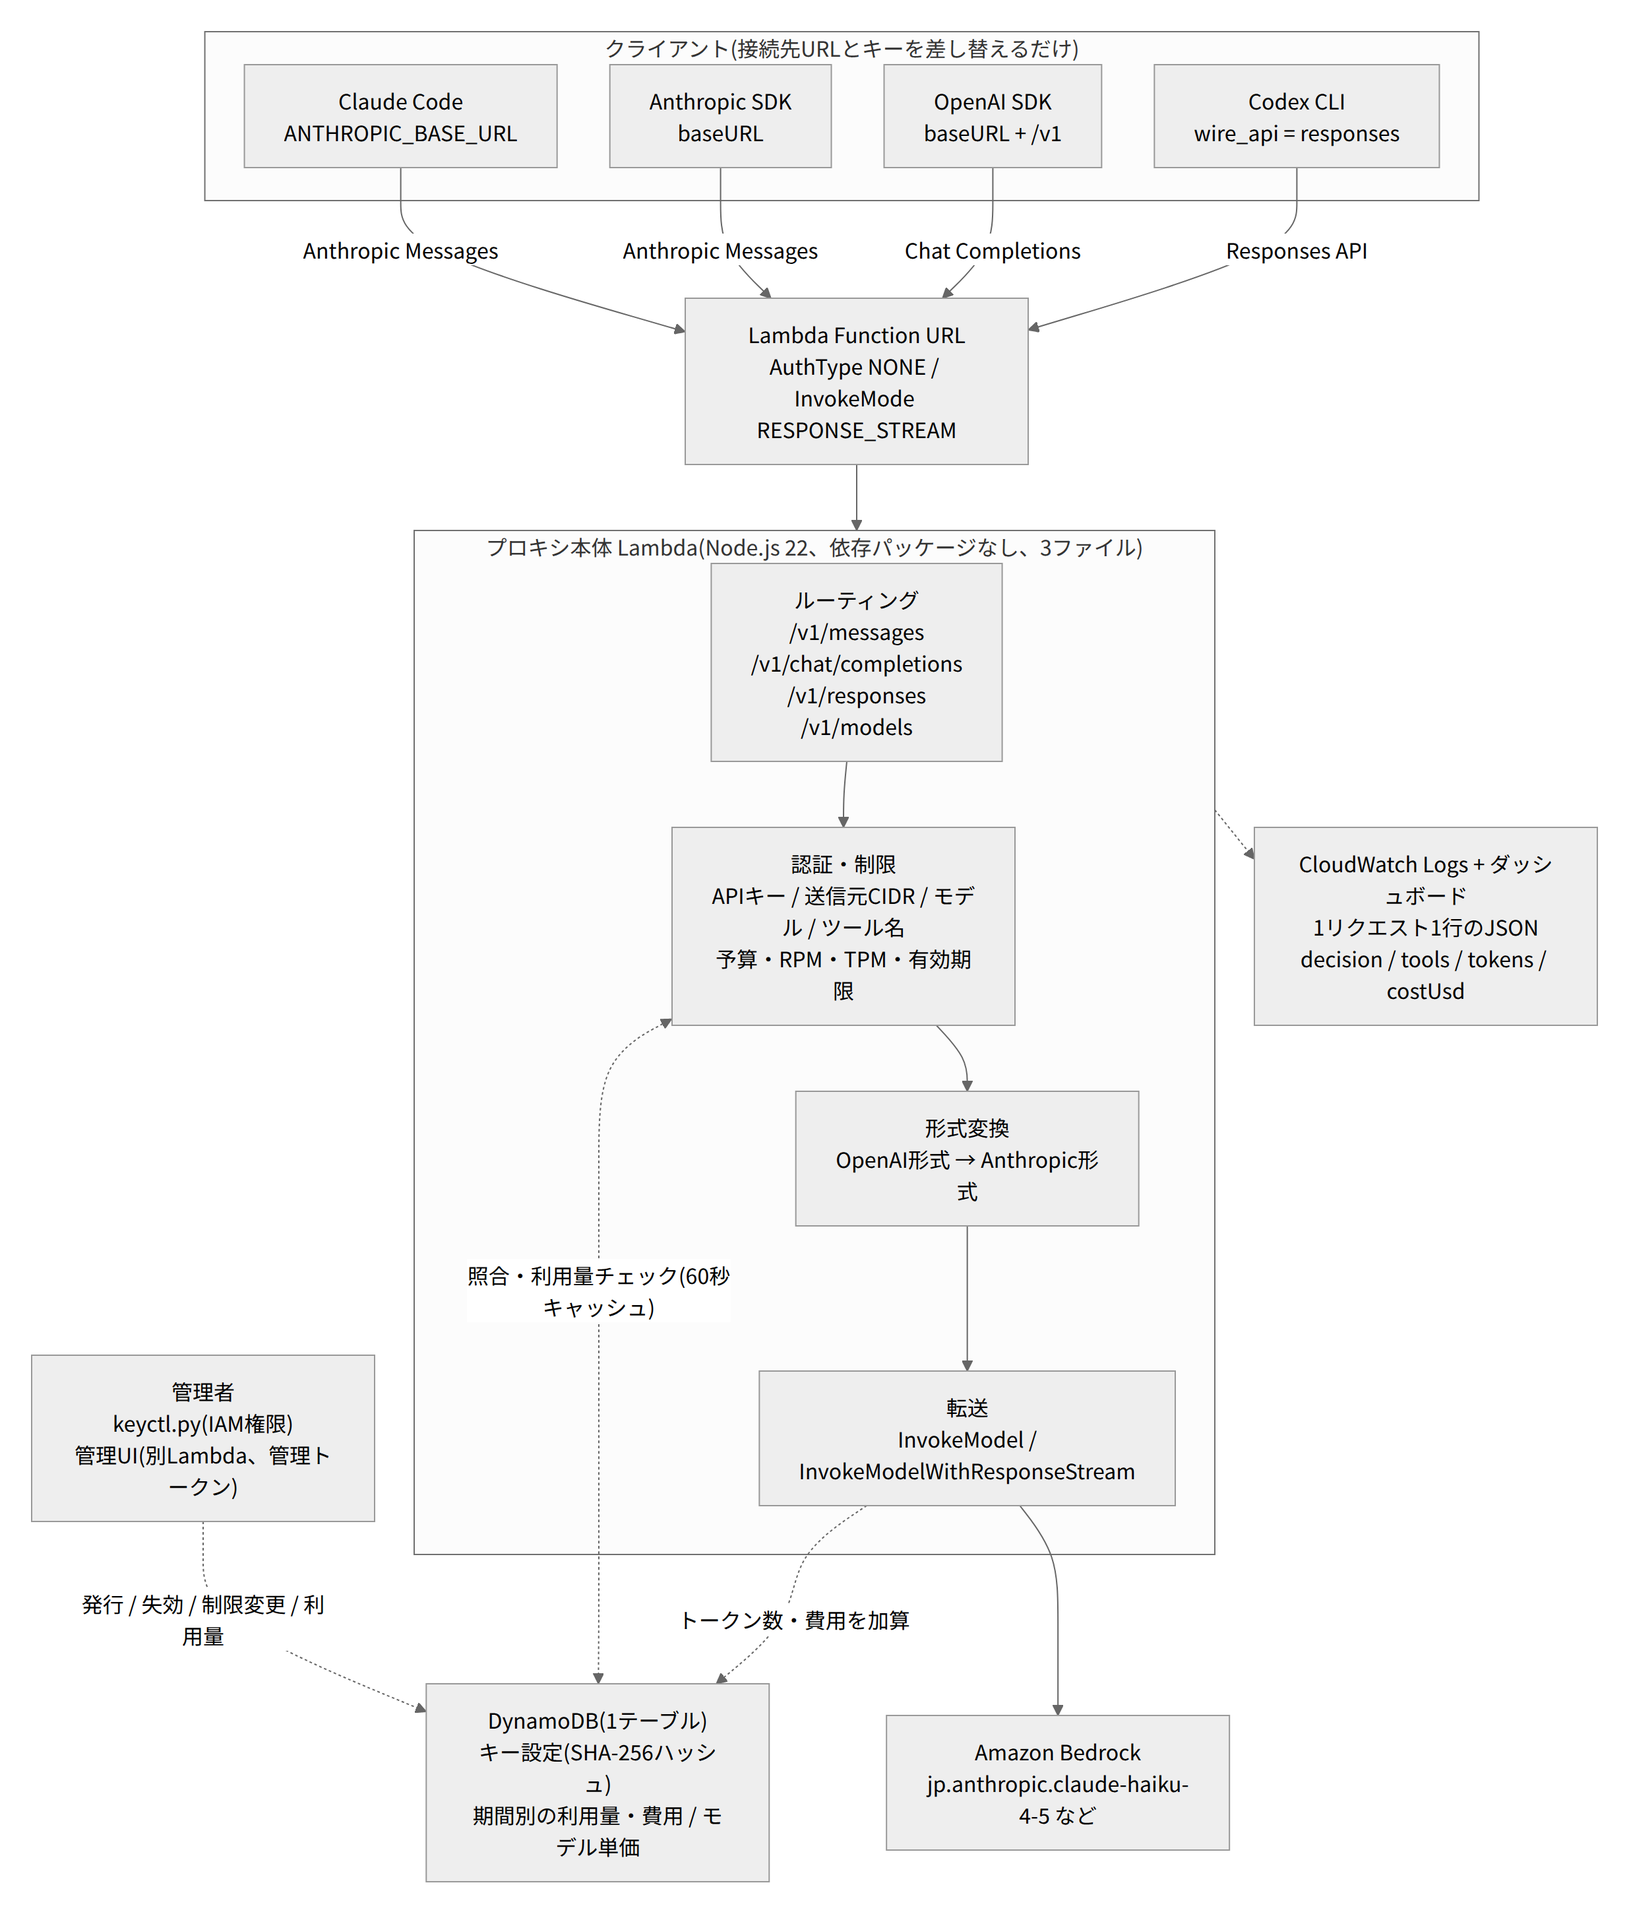
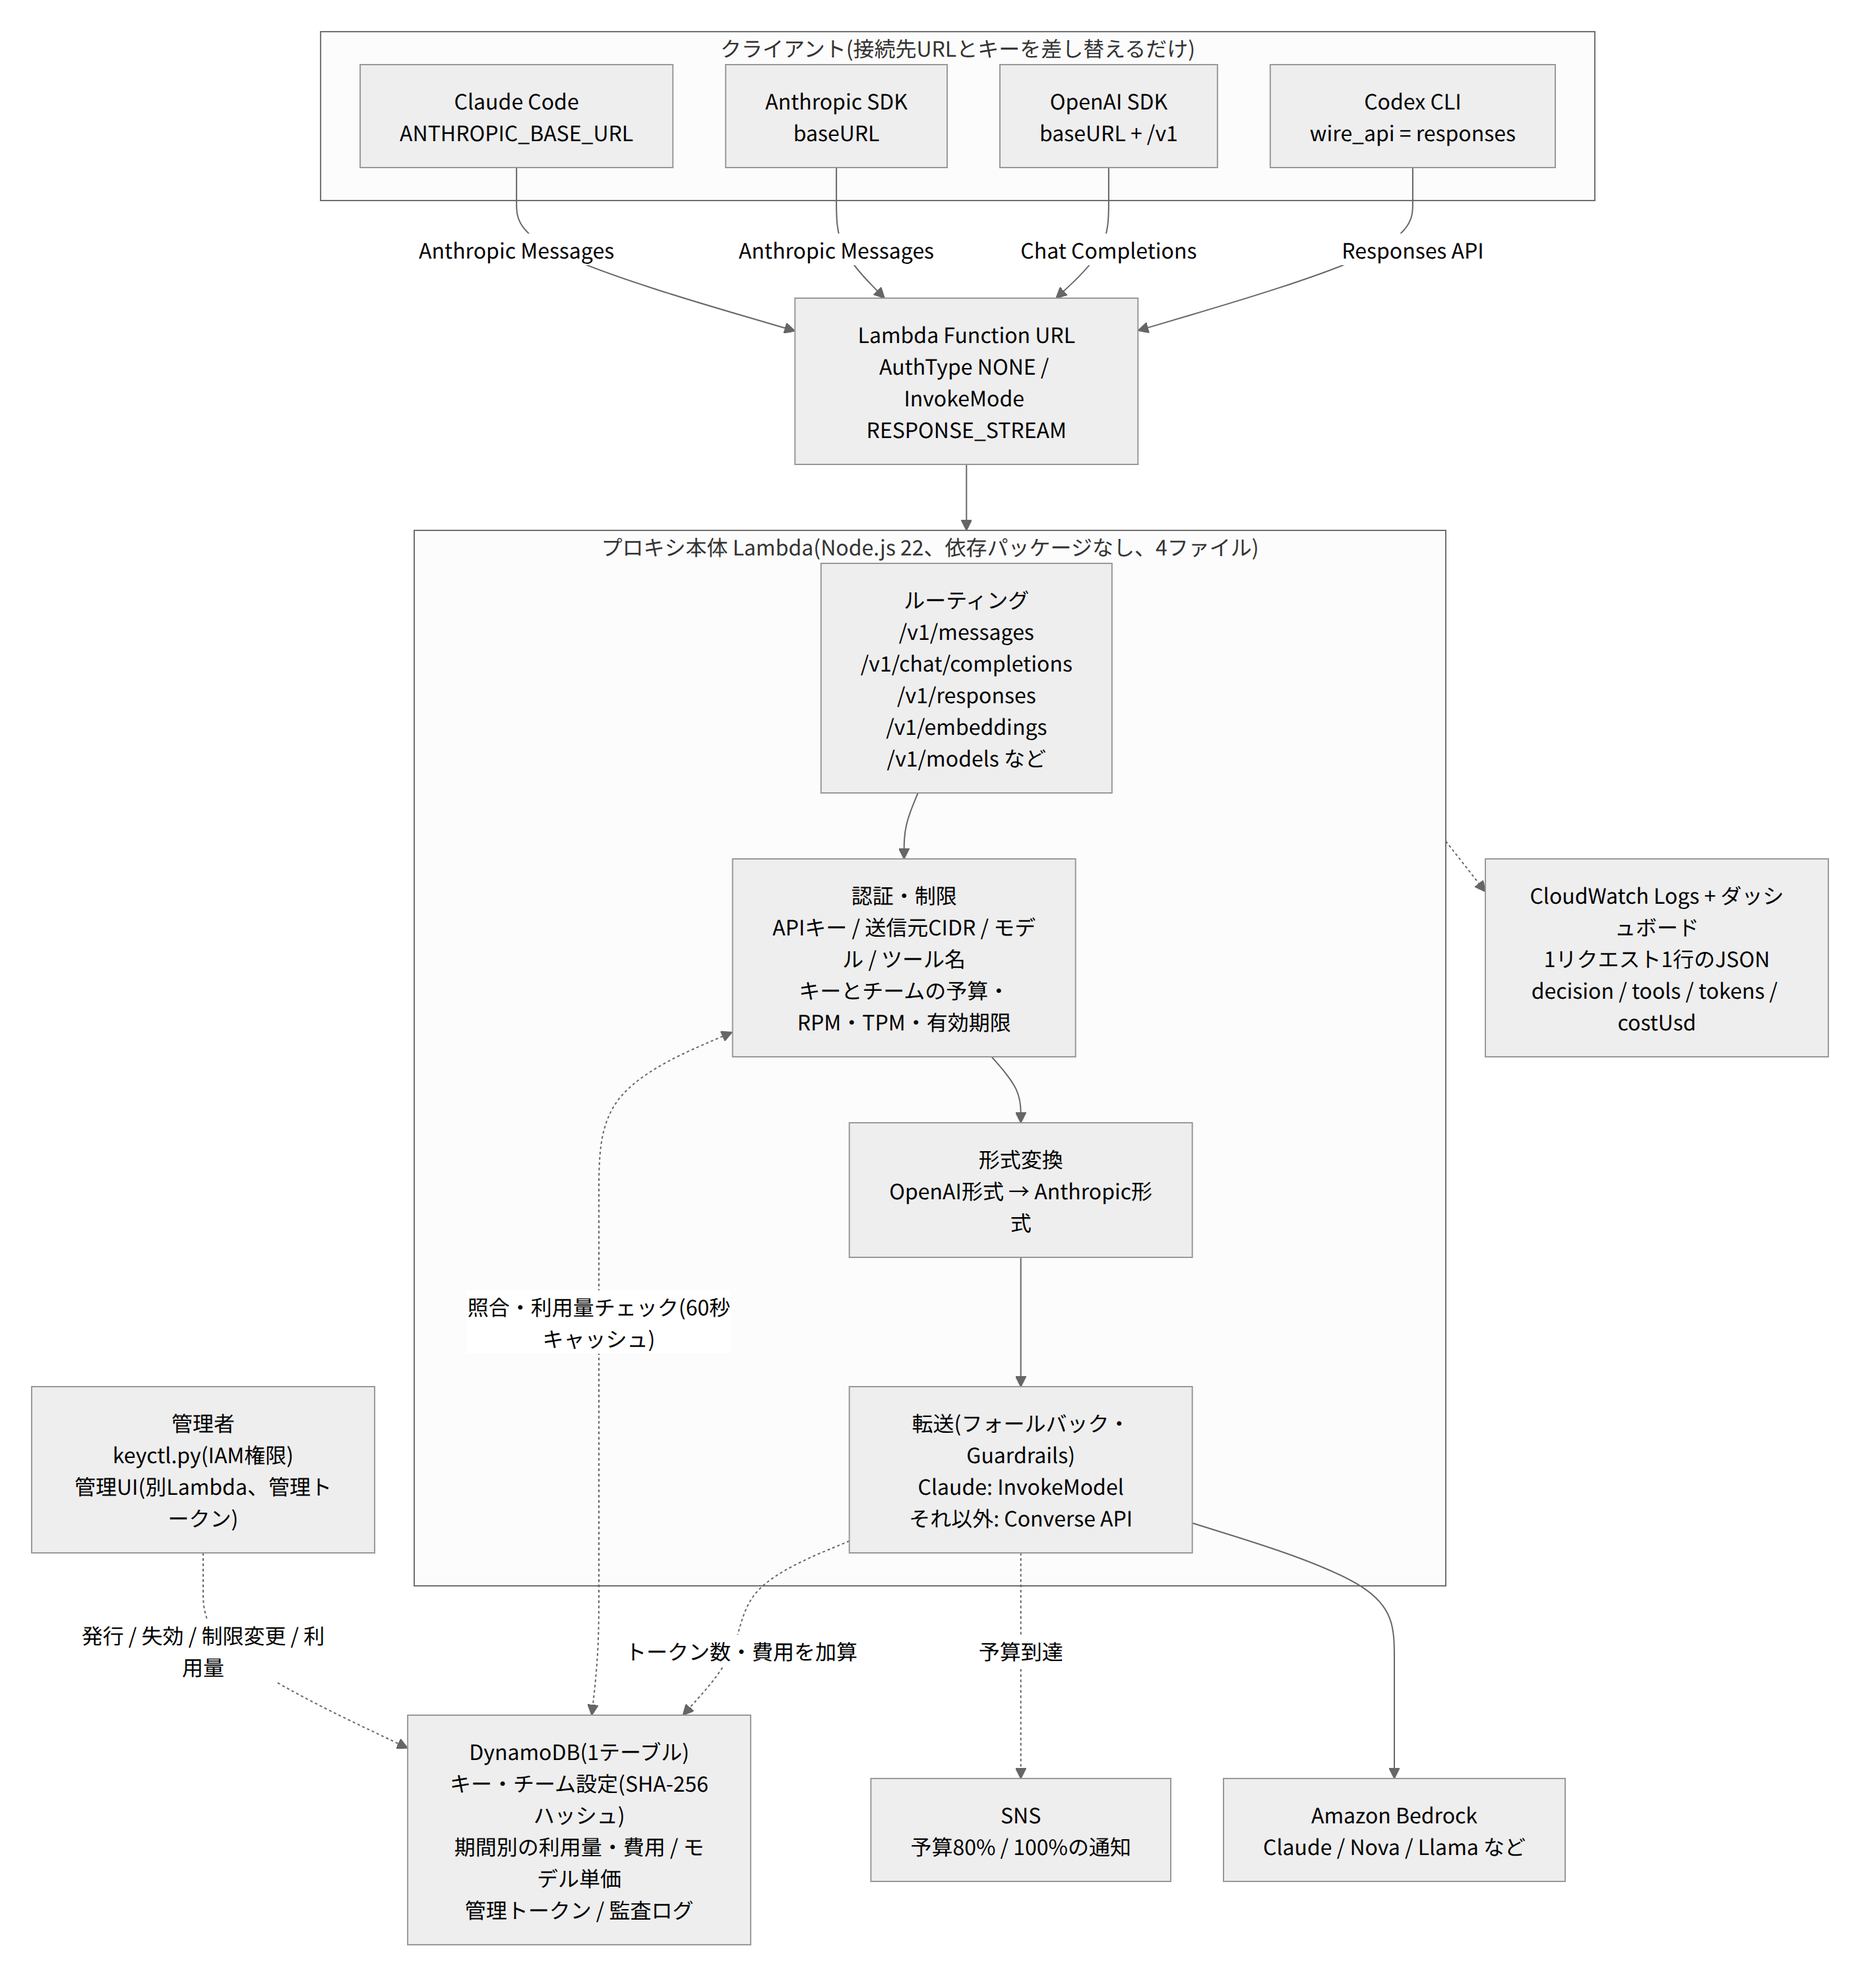
README: file counts and limitations; architecture diagram updated

diff --git a/README.md b/README.md
@@ -3,7 +3,7 @@
 AWS Lambda の Function URL で Anthropic Messages API 互換と OpenAI 互換(Chat Completions / Responses API)のリクエストを受け、
 Amazon Bedrock に転送する簡易 LLM プロキシです。Claude Code、Anthropic SDK、OpenAI SDK、Codex CLI から接続先の差し替えだけで使えます。
 
-- コードはプロキシ本体 3 ファイル + 管理 UI 2 ファイル(計約 950 行)、依存パッケージなし(AWS SDK v3 は Lambda ランタイム同梱)
+- コードはプロキシ本体 4 ファイル + 管理 UI 2 ファイル(計約 1,250 行)、依存パッケージなし(AWS SDK v3 は Lambda ランタイム同梱)
 - インフラは Terraform(Lambda、Function URL、IAM、ログ、ダッシュボード)。固定費ゼロ
 - Claude 以外の Bedrock モデル(Nova、Llama、Mistral など)も同じキー・同じエンドポイントで使える(Anthropic モデルは InvokeModel に透過、それ以外は Converse API に変換)
 - API キーは `keyctl.py` か管理 UI で発行・失効・再発行(保存は SHA-256 ハッシュ。平文は発行時に 1 回だけ表示)
@@ -254,9 +254,11 @@ wire_api = "responses"
 
 - `previous_response_id`(ステートレスなので全履歴を送る)、`response_format` / `text.format` の `text` 以外、`n > 1`
 - ホスト型ツール(`web_search` など)。落として `droppedTools` としてログに記録
-- `/v1/messages/count_tokens`、埋め込みなど上記以外のエンドポイント
-- レート制限・予算上限。CIDR 判定は IPv4 のみ
-- Function URL は公開エンドポイント。WAF が必要なら CloudFront を手前に置き、Function URL を `AuthType: AWS_IAM` にする構成を検討する(未検証)
+- 画像生成・音声・バッチなど、上記エンドポイント表にないもの
+- 応答キャッシュ、ルーティングの重み付け、管理 UI の SSO 本体(`admin_auth_type = AWS_IAM` + CloudFront/Cognito の前置きで代替)
+- TPM と予算は事後計上(RPM は同期的)。並列で多少超えうる。CIDR 判定は IPv4 のみ
+- Function URL は公開エンドポイント。WAF が必要なら CloudFront を前に置き、Function URL を `AuthType: AWS_IAM` にする構成を検討する(未検証)
+- キー一覧と keyId 検索は Scan(数千件を超えるなら GSI を追加)
 
 ## 削除
 
